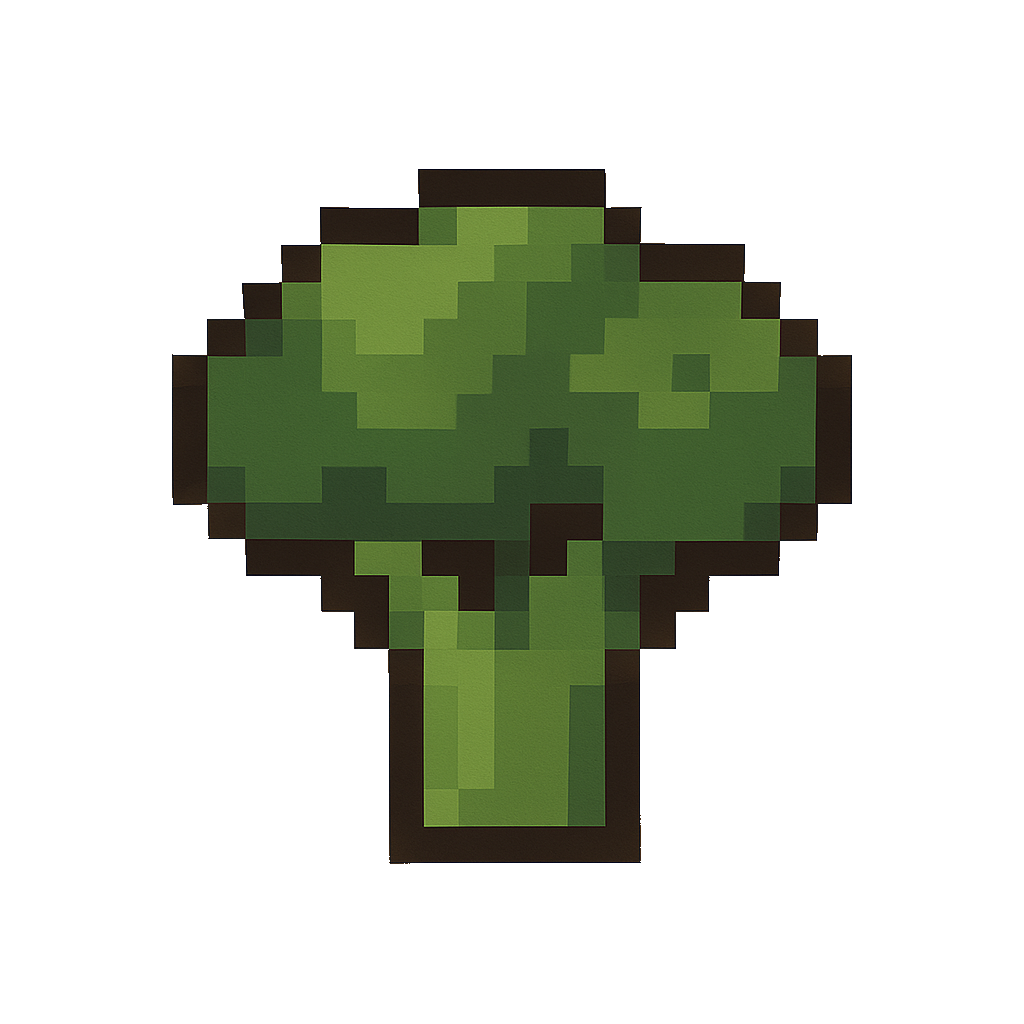
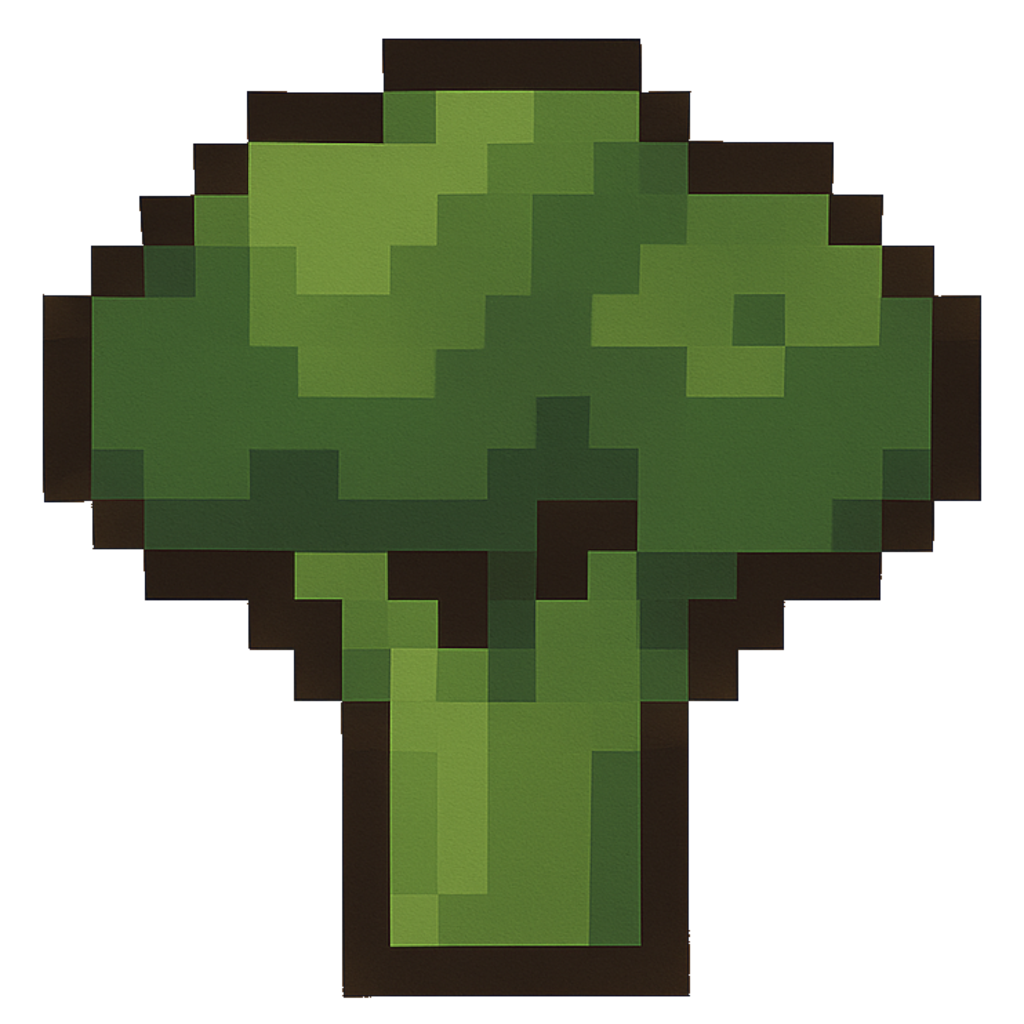
Fixed first harvest achievement and udpated art.

diff --git a/src/App.tsx b/src/App.tsx
@@ -193,6 +193,8 @@ const GameProvider: React.FC<{ children: React.ReactNode }> = ({ children }) => 
     setDay,
     totalDaysElapsed,
     setTotalDaysElapsed,
+    totalHarvests,
+    setTotalHarvests,
     activeVeggie,
     setActiveVeggie,
     farmTier,
@@ -372,6 +374,7 @@ const GameProvider: React.FC<{ children: React.ReactNode }> = ({ children }) => 
   setFarmTier(1);
   setDay(1);
   setTotalDaysElapsed(0);
+  setTotalHarvests(0);
   setMaxPlots(4);
   setMoney(0);
   setExperience(0);
@@ -404,6 +407,7 @@ const GameProvider: React.FC<{ children: React.ReactNode }> = ({ children }) => 
     experience: 0,
     knowledge: 0,
     activeVeggie: 0,
+    totalHarvests: 0,
     veggies: resetVeggies,
     almanacLevel: 0,
     almanacCost: 10,
@@ -672,6 +676,9 @@ const GameProvider: React.FC<{ children: React.ReactNode }> = ({ children }) => 
       }
     }
     
+    // Increment total harvests counter
+    setTotalHarvests((prev: number) => prev + 1);
+    
     // Call harvest callback if provided
     if (onHarvestCallback) {
       onHarvestCallback(v.name, harvestAmount, experienceGain, totalKnowledgeGain, isAutoHarvest);
@@ -827,7 +834,7 @@ const GameProvider: React.FC<{ children: React.ReactNode }> = ({ children }) => 
 
 
   return (
-  <GameContext.Provider value={{ veggies, setVeggies, money, setMoney, experience, setExperience, knowledge, setKnowledge, activeVeggie, day, setDay, totalDaysElapsed, setTotalDaysElapsed, globalAutoPurchaseTimer, setGlobalAutoPurchaseTimer, setActiveVeggie, handleHarvest, handleToggleSell, handleSell, handleBuyFertilizer, handleBuyHarvester, handleBuyBetterSeeds, greenhouseOwned, setGreenhouseOwned, handleBuyGreenhouse, handleBuyHarvesterSpeed, resetGame, heirloomOwned, setHeirloomOwned, handleBuyHeirloom, autoSellOwned, setAutoSellOwned, handleBuyAutoSell, almanacLevel, setAlmanacLevel, almanacCost, setAlmanacCost, handleBuyAlmanac, handleBuyAdditionalPlot, maxPlots, setMaxPlots, farmCost, setFarmCost, handleBuyLargerFarm, farmTier, setFarmTier, irrigationOwned, setIrrigationOwned, irrigationCost, irrigationKnCost, handleBuyIrrigation, currentWeather, setCurrentWeather, highestUnlockedVeggie, setHighestUnlockedVeggie, handleBuyAutoPurchaser, heirloomMoneyCost, heirloomKnowledgeCost }}>
+  <GameContext.Provider value={{ veggies, setVeggies, money, setMoney, experience, setExperience, knowledge, setKnowledge, activeVeggie, day, setDay, totalDaysElapsed, setTotalDaysElapsed, totalHarvests, setTotalHarvests, globalAutoPurchaseTimer, setGlobalAutoPurchaseTimer, setActiveVeggie, handleHarvest, handleToggleSell, handleSell, handleBuyFertilizer, handleBuyHarvester, handleBuyBetterSeeds, greenhouseOwned, setGreenhouseOwned, handleBuyGreenhouse, handleBuyHarvesterSpeed, resetGame, heirloomOwned, setHeirloomOwned, handleBuyHeirloom, autoSellOwned, setAutoSellOwned, handleBuyAutoSell, almanacLevel, setAlmanacLevel, almanacCost, setAlmanacCost, handleBuyAlmanac, handleBuyAdditionalPlot, maxPlots, setMaxPlots, farmCost, setFarmCost, handleBuyLargerFarm, farmTier, setFarmTier, irrigationOwned, setIrrigationOwned, irrigationCost, irrigationKnCost, handleBuyIrrigation, currentWeather, setCurrentWeather, highestUnlockedVeggie, setHighestUnlockedVeggie, handleBuyAutoPurchaser, heirloomMoneyCost, heirloomKnowledgeCost }}>
       {children}
     </GameContext.Provider>
   );
@@ -895,7 +902,7 @@ function App() {
     setUiPreferences(prev => ({ ...prev, canningRecipeSort: sort }));
   }, []);
 
-  const { resetGame, veggies, setVeggies, money, setMoney, experience, knowledge, setKnowledge, activeVeggie, day, totalDaysElapsed, globalAutoPurchaseTimer, setActiveVeggie, handleHarvest, handleToggleSell, handleSell, handleBuyFertilizer, handleBuyHarvester, handleBuyBetterSeeds, greenhouseOwned, handleBuyGreenhouse, handleBuyHarvesterSpeed, heirloomOwned, handleBuyHeirloom, autoSellOwned, handleBuyAutoSell, almanacLevel, almanacCost, handleBuyAlmanac, handleBuyAdditionalPlot, maxPlots, farmCost, handleBuyLargerFarm, farmTier, irrigationOwned, irrigationCost, irrigationKnCost, handleBuyIrrigation, currentWeather, setCurrentWeather, highestUnlockedVeggie, handleBuyAutoPurchaser, heirloomMoneyCost, heirloomKnowledgeCost } = useGame();
+  const { resetGame, veggies, setVeggies, money, setMoney, experience, knowledge, setKnowledge, activeVeggie, day, totalDaysElapsed, totalHarvests, globalAutoPurchaseTimer, setActiveVeggie, handleHarvest, handleToggleSell, handleSell, handleBuyFertilizer, handleBuyHarvester, handleBuyBetterSeeds, greenhouseOwned, handleBuyGreenhouse, handleBuyHarvesterSpeed, heirloomOwned, handleBuyHeirloom, autoSellOwned, handleBuyAutoSell, almanacLevel, almanacCost, handleBuyAlmanac, handleBuyAdditionalPlot, maxPlots, farmCost, handleBuyLargerFarm, farmTier, irrigationOwned, irrigationCost, irrigationKnCost, handleBuyIrrigation, currentWeather, setCurrentWeather, highestUnlockedVeggie, handleBuyAutoPurchaser, heirloomMoneyCost, heirloomKnowledgeCost } = useGame();
 
   // Season system hook
   const { season } = useSeasonSystem(day);
@@ -1161,6 +1168,7 @@ function App() {
         activeVeggie,
         day,
         totalDaysElapsed,
+        totalHarvests,
         globalAutoPurchaseTimer,
         greenhouseOwned,
         heirloomOwned,
@@ -1186,7 +1194,7 @@ function App() {
       lastSaveTimeRef.current = Date.now();
       pendingSaveRef.current = false;
     }
-  }, [canningState, uiPreferences, veggies, money, experience, knowledge, activeVeggie, day, totalDaysElapsed, globalAutoPurchaseTimer, greenhouseOwned, heirloomOwned, autoSellOwned, almanacLevel, almanacCost, maxPlots, farmTier, farmCost, irrigationOwned, currentWeather, highestUnlockedVeggie, achievements, totalUnlocked, lastUnlockedId, eventLog]);
+  }, [canningState, uiPreferences, veggies, money, experience, knowledge, activeVeggie, day, totalDaysElapsed, totalHarvests, globalAutoPurchaseTimer, greenhouseOwned, heirloomOwned, autoSellOwned, almanacLevel, almanacCost, maxPlots, farmTier, farmCost, irrigationOwned, currentWeather, highestUnlockedVeggie, achievements, totalUnlocked, lastUnlockedId, eventLog]);
 
   // Check achievements periodically
   useEffect(() => {
@@ -1200,9 +1208,9 @@ function App() {
       veggiesUnlocked,
       canningItemsTotal,
       farmTier,
-      totalHarvests: 0 // This would need to be tracked separately if needed
+      totalHarvests
     });
-  }, [money, experience, knowledge, veggies, canningState, farmTier, checkAchievements]);
+  }, [money, experience, knowledge, veggies, canningState, farmTier, totalHarvests, checkAchievements]);
 
   // Debounced save effect - only trigger save if state has actually changed
   // and enough time has passed

diff --git a/src/hooks/useGameState.ts b/src/hooks/useGameState.ts
@@ -22,6 +22,7 @@ interface LoadedGameState {
   maxPlots?: number;
   highestUnlockedVeggie?: number;
   globalAutoPurchaseTimer?: number;
+  totalHarvests?: number;
 }
 
 interface UseGameStateParams {
@@ -71,6 +72,9 @@ export const useGameState = ({ loadedState, initialVeggies }: UseGameStateParams
   // Time state
   const [day, setDay] = useState(loadedState?.day ?? 1);
   const [totalDaysElapsed, setTotalDaysElapsed] = useState(loadedState?.totalDaysElapsed ?? 0);
+
+  // Statistics state
+  const [totalHarvests, setTotalHarvests] = useState(loadedState?.totalHarvests ?? 0);
 
   // UI/Selection state
   const [activeVeggie, setActiveVeggie] = useState(loadedState?.activeVeggie ?? 0);
@@ -126,6 +130,10 @@ export const useGameState = ({ loadedState, initialVeggies }: UseGameStateParams
     setDay,
     totalDaysElapsed,
     setTotalDaysElapsed,
+
+    // Statistics
+    totalHarvests,
+    setTotalHarvests,
 
     // Selection
     activeVeggie,

diff --git a/src/types/game.ts b/src/types/game.ts
@@ -106,6 +106,10 @@ export interface GameState {
   totalDaysElapsed: number;
   setTotalDaysElapsed: React.Dispatch<React.SetStateAction<number>>;
   
+  // Statistics
+  totalHarvests: number;
+  setTotalHarvests: React.Dispatch<React.SetStateAction<number>>;
+  
   // Auto-Purchase System
   globalAutoPurchaseTimer: number;
   setGlobalAutoPurchaseTimer: React.Dispatch<React.SetStateAction<number>>;
